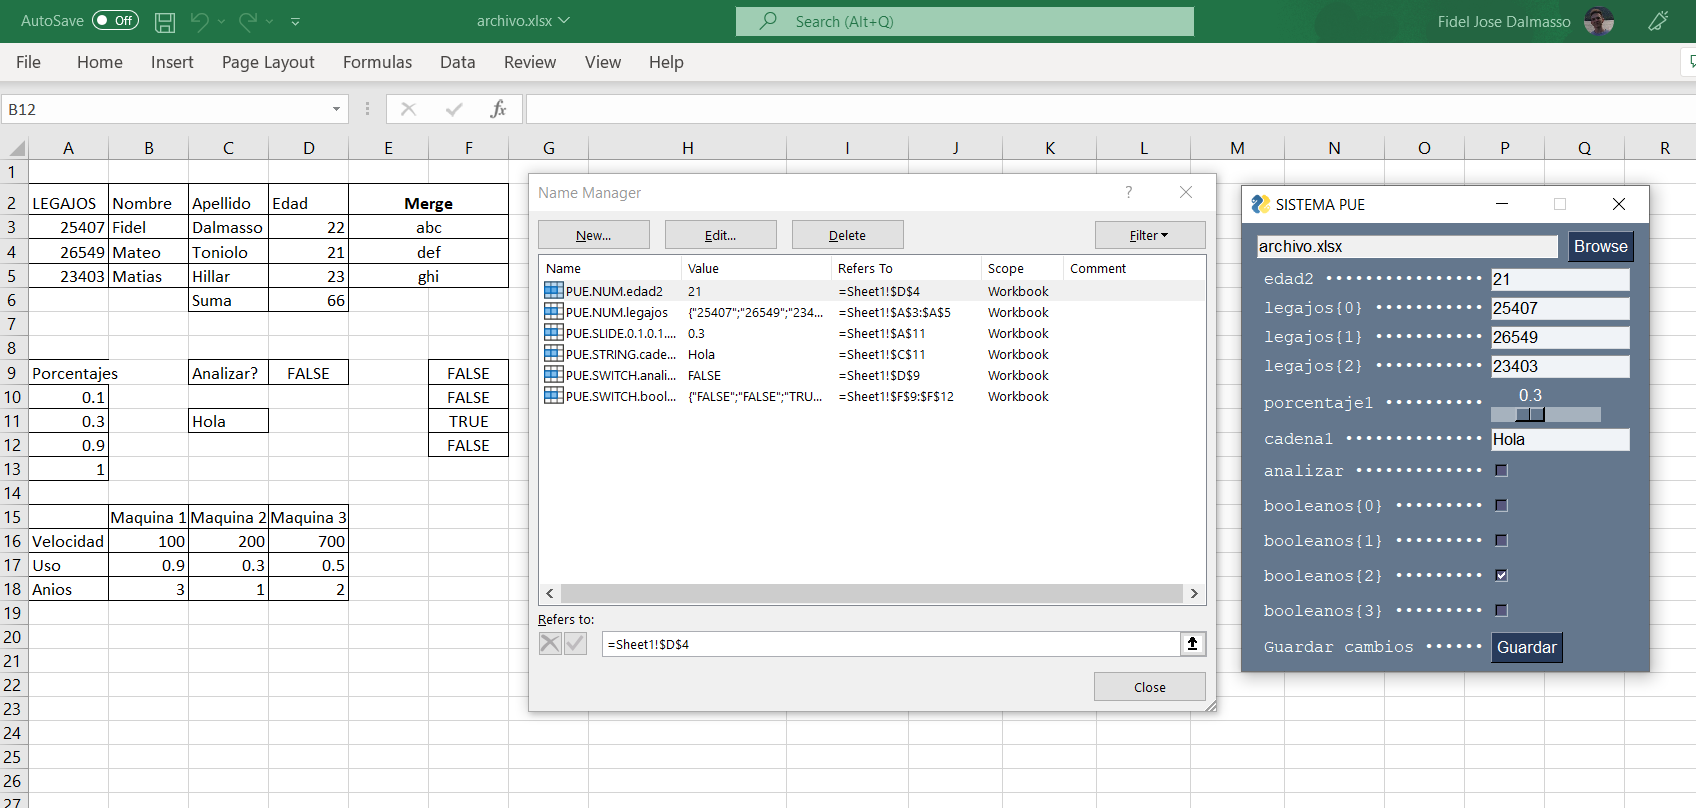
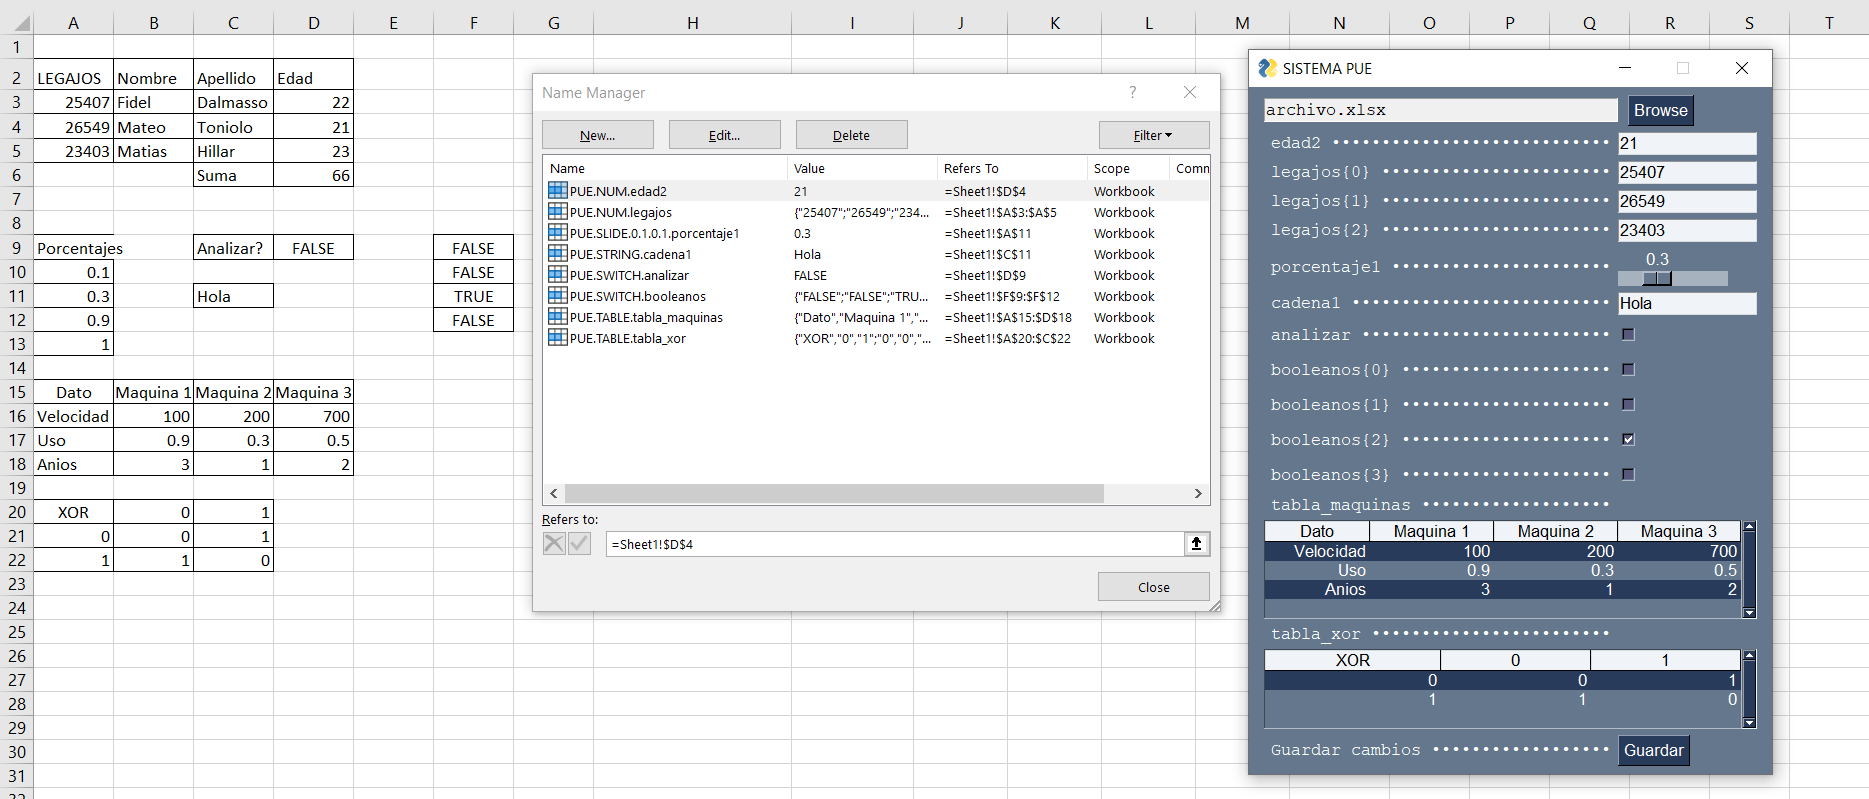
Agrega soporte para TABLE

diff --git a/script.py b/script.py
@@ -3,8 +3,6 @@ import openpyxl
 import PySimpleGUI as sg
 import re
 
-
-
 class Componente:
 	def __init__(self, tipo1):
 		self.tipo = tipo1
@@ -37,7 +35,7 @@ def funcion(nombre,resultado):
 		# ((?P<TrueValue>[a-zA-Z]+)\.(?P<FalseValue>[a-zA-Z]+)\.) | 
 		((?P<MinValue>\d+)\.(?P<MaxValue>\d+)\.(?P<Resolution>[\d\.]+)\.) |
 	)
-	(?P<Nombre>[a-zA-z0-9]+)
+	(?P<Nombre>[a-zA-z0-9_]+)
 	""",re.VERBOSE)
 
 	s=nombre
@@ -46,28 +44,45 @@ def funcion(nombre,resultado):
 	if(m!=None):
 		m=m.groupdict()
 		if hasattr(resultado, '__iter__'):  # es un rango de celdas
-			pass
-			lista = []
-			
-			counter=0
-			for row in resultado:
-				for cell in row:
-					match m.get('Tipo'):
-						case 'PUE.NUM.':
-							obj = Componente("NUM")
-						case 'PUE.STRING.':
-							obj = Componente("STRING")
-						case 'PUE.SLIDE.':
-							print("Warning: Range SLIDE not supported!")
-						case 'PUE.SWITCH.':
-							obj = Componente("SWITCH")
-					obj.nombre = m.get('Nombre')+"{"+str(counter)+"}"
-					obj.resultado = cell
-					obj.valor=cell.value
-					lista.append(obj)
-					counter+=1
 
-			return lista
+			if m.get('Tipo')=='PUE.TABLE.':
+				obj = Componente("TABLE")
+				obj.nombre = str(m.get('Nombre'))
+				h=len(resultado)
+				w=len(resultado[0])
+				obj.valores = [[0 for x in range(w)] for y in range(h)] 
+				# for row in resultado:
+				# 	for cell in row:
+				# 		obj.valores[int(counter/ancho)][counter%ancho]=cell.value
+				# 		counter+=1
+				for i in range(h):
+					for j in range(w):
+						obj.valores[i][j]=str(resultado[i][j].value)
+				return [obj]
+						
+			else:
+				counter=0
+				lista = []
+				for row in resultado:
+					for cell in row:
+						match m.get('Tipo'):
+							case 'PUE.NUM.':
+								obj = Componente("NUM")
+							case 'PUE.STRING.':
+								obj = Componente("STRING")
+							case 'PUE.SLIDE.':
+								print("Warning: Range SLIDE not supported!")
+							case 'PUE.SWITCH.':
+								obj = Componente("SWITCH")
+							case _:
+								print('Error! No se matchea con ningun caso!')
+						obj.nombre = m.get('Nombre')+"{"+str(counter)+"}"
+						obj.resultado = cell
+						obj.valor=cell.value
+						lista.append(obj)
+						counter+=1
+
+				return lista
 		else:  # es una celda
 			
 			match m.get('Tipo'):
@@ -95,12 +110,12 @@ def funcion(nombre,resultado):
 
 def make_window(componentes):
 	
-	NAME_SIZE = 23
+	NAME_SIZE = 35
 	def name(name):
 		dots = NAME_SIZE-len(name)-2
 		return sg.Text(name + ' ' + '•'*dots, size=(NAME_SIZE,1), justification='r',pad=(0,0), font='Courier 10')
 	
-	layout=[[sg.Input(FILENAME,key='browse',readonly=True,enable_events=True,s=33), sg.FileBrowse( target='browse')]]
+	layout=[[sg.Input(FILENAME,key='browse',readonly=True,enable_events=True,s=35,font='Courier 10'), sg.FileBrowse( target='browse')]]
 
 # 				[[sg.Input(key='_FILEBROWSE_', enable_events=True, visible=False)],
 #             [sg.FileBrowse(target='_FILEBROWSE_')],
@@ -120,8 +135,14 @@ def make_window(componentes):
 				# c.Update(componente.valor)
 			case 'SWITCH':
 				c = [name(componente.nombre), sg.Checkbox('',default=componente.valor=='True',key=componente.nombre)],
-
+			case 'TABLE':
+				layout.append([name(componente.nombre)])
+				c = [sg.Table(componente.valores[1:],headings=componente.valores[0],key=componente.nombre, expand_x=True,num_rows=len(componente.valores[0]), expand_y=True,alternating_row_color=sg.theme_button_color()[1])]
+				# c = [name(componente.nombre), sg.Button('caca')]
 		layout.append(c)
+
+
+
 
 	layout.append([name('Guardar cambios'),sg.Button('Guardar',key='Go')])
 	window = sg.Window('SISTEMA PUE', layout, finalize=True, keep_on_top=True)
@@ -145,11 +166,9 @@ def cargarArchivo(FILENAME):
 
 	window= make_window(componentes)
 	for i in keylist:
-		window[i].Update(componentes[i].valor) # poner los valores iniciales
+		if(componentes[i].tipo!='TABLE'):
+			window[i].Update(componentes[i].valor) # poner los valores iniciales
 	return wb,componentes,keylist,window
-
-
-
 
 
 FILENAME = 'archivo.xlsx'
@@ -165,11 +184,12 @@ while True:
 		wb, componentes, keylist, window = cargarArchivo(FILENAME)
 	elif event == "Go":
 		for i in keylist:
-			print("["+i+"="+str(values[i])+"]",end='')
-			componentes[i].modificar(str(values[i]))
+			# if(values[i]!=None):
+			if(componentes[i].tipo!='TABLE'):
+				print("["+i+"="+str(values[i])+"]",end='')
+				componentes[i].modificar(str(values[i]))
 		print()
 		nuevoArchivo = FILENAME.split('.')[0]+'Modificado.xlsx'
 		print("Guardando cambios en " + nuevoArchivo+" ...")
 		wb.save(nuevoArchivo)
 window.close()
-

diff --git a/ejemplos/ejemploTabla2.py b/ejemplos/ejemploTabla2.py
@@ -1,0 +1,98 @@
+import PySimpleGUI as sg
+import random, string
+
+# ------ Some functions to help generate data for the table ------
+def word():
+    return ''.join(random.choice(string.ascii_lowercase) for i in range(10))
+def number(max_val=1000):
+    return random.randint(0, max_val)
+
+def make_table(num_rows, num_cols):
+    data = [[j for j in range(num_cols)] for i in range(num_rows)]
+    data[0] = [word() for _ in range(num_cols)]
+    for i in range(0, num_rows):
+        data[i] = [i, word(), *[number() for i in range(num_cols - 1)]]
+    return data
+
+def edit_cell(window, key, row, col, justify='left'):
+
+    global textvariable, edit
+
+    def callback(event, row, col, text, key):
+        global edit
+        widget = event.widget
+        if key == 'Return':
+            text = widget.get()
+            print(text)
+        widget.destroy()
+        widget.master.destroy()
+        values = list(table.item(row, 'values'))
+        values[col] = text
+        table.item(row, values=values)
+        edit = False
+
+    if edit or row <= 0:
+        return
+
+    edit = True
+    root = window.TKroot
+    table = window[key].Widget
+
+    text = table.item(row, "values")[col]
+    x, y, width, height = table.bbox(row, col)
+
+    frame = sg.tk.Frame(root)
+    frame.place(x=x, y=y, anchor="nw", width=width, height=height)
+    textvariable = sg.tk.StringVar()
+    textvariable.set(text)
+    entry = sg.tk.Entry(frame, textvariable=textvariable, justify=justify)
+    entry.pack()
+    entry.select_range(0, sg.tk.END)
+    entry.icursor(sg.tk.END)
+    entry.focus_force()
+    entry.bind("<Return>", lambda e, r=row, c=col, t=text, k='Return':callback(e, r, c, t, k))
+    entry.bind("<Escape>", lambda e, r=row, c=col, t=text, k='Escape':callback(e, r, c, t, k))
+
+def main_example1():
+    global edit
+
+    edit = False
+    # ------ Make the Table Data ------
+    # sg.Print('Creating table...')
+    data = make_table(num_rows=1_000, num_cols=6)
+    # headings = [str(data[0][x])+'     ..' for x in range(len(data[0]))]
+    headings = [f'Col {col}' for col in range(len(data[0]))]
+    # sg.Print('Done creating table.  Creating GUI...')
+    sg.set_options(dpi_awareness=True)
+    layout = [[sg.Table(values=data, headings=headings, max_col_width=25,
+                        auto_size_columns=True,
+                        # display_row_numbers=True,
+                        justification='right',
+                        num_rows=20,
+                        alternating_row_color=sg.theme_button_color()[1],
+                        key='-TABLE-',
+                        # selected_row_colors='red on yellow',
+                        # enable_events=True,
+                        # select_mode=sg.TABLE_SELECT_MODE_BROWSE,
+                        expand_x=True,
+                        expand_y=True,
+                        enable_click_events=True,  # Comment out to not enable header and other clicks
+                        )],
+              [sg.Button('Read'), sg.Button('Double'), sg.Button('Change Colors')],
+              [sg.Text('Cell clicked:'), sg.T(k='-CLICKED-')]]
+
+
+    window = sg.Window('Table Element - Example 1', layout, resizable=True, finalize=True)
+
+    while True:
+        event, values = window.read()
+        if event in (sg.WIN_CLOSED, 'Exit'):
+            break
+        elif isinstance(event, tuple):
+            cell = row, col = event[2]
+            window['-CLICKED-'].update(cell)
+            edit_cell(window, '-TABLE-', row+1, col, justify='right')
+
+    window.close()
+
+main_example1()

diff --git a/ejemplos/ejemploTabla.py b/ejemplos/ejemploTabla.py
@@ -1,0 +1,74 @@
+import PySimpleGUI as sg
+import random, string
+
+# ------ Some functions to help generate data for the table ------
+def word():
+    return ''.join(random.choice(string.ascii_lowercase) for i in range(10))
+def number(max_val=1000):
+    return random.randint(0, max_val)
+
+def make_table(num_rows, num_cols):
+    data = [[j for j in range(num_cols)] for i in range(num_rows)]
+    data[0] = [word() for _ in range(num_cols)]
+    for i in range(0, num_rows):
+        data[i] = [i, word(), *[number() for i in range(num_cols - 1)]]
+    return data
+
+def main_example1():
+    def edit_cell(location):
+        layout = [[sg.In(s=5, k='-IN-')],
+                  [sg.B('Ok', visible=False, bind_return_key=True)]]
+
+        window = sg.Window('', layout, no_titlebar=True, location=location, margins=(0,0), element_padding=(0,0), return_keyboard_events=True, keep_on_top=True, modal=True)
+        while True:
+            event, values = window.read()
+            print(event, values)
+            if event == 'Ok':
+                window.close()
+                return values['-IN-']
+            elif event.startswith('Escape'):
+                window.close()
+                return None
+
+    # ------ Make the Table Data ------
+    # sg.Print('Creating table...')
+    data = make_table(num_rows=10_000, num_cols=6)
+    # headings = [str(data[0][x])+'     ..' for x in range(len(data[0]))]
+    headings = [f'Col {col}' for col in range(len(data[0]))]
+    # sg.Print('Done creating table.  Creating GUI...')
+    layout = [[sg.Table(values=data, headings=headings, max_col_width=25,
+                        auto_size_columns=True,
+                        # display_row_numbers=True,
+                        justification='right',
+                        num_rows=20,
+                        alternating_row_color=sg.theme_button_color()[1],
+                        key='-TABLE-',
+                        # selected_row_colors='red on yellow',
+                        # enable_events=True,
+                        # select_mode=sg.TABLE_SELECT_MODE_BROWSE,
+                        expand_x=True,
+                        expand_y=True,
+                        enable_click_events=True,  # Comment out to not enable header and other clicks
+                        )],
+              [sg.Button('Read'), sg.Button('Double'), sg.Button('Change Colors')],
+              [sg.Text('Cell clicked:'), sg.T(k='-CLICKED-')]]
+
+
+    window = sg.Window('Table Element - Example 1', layout, resizable=True)
+
+    while True:
+        event, values = window.read()
+        if event in (sg.WIN_CLOSED, 'Exit'):
+            break
+        if isinstance(event, tuple):
+            cell = event[2]
+            window['-CLICKED-'].update(cell)
+            new_value = edit_cell(location=window.mouse_location())
+            if new_value is not None:
+                data[cell[0]][cell[1]] = new_value
+                window['-TABLE-'].update(data)
+
+    window.close()
+
+main_example1()
+

diff --git a/README.md b/README.md
@@ -11,7 +11,7 @@ PUE.STRING.Nombre
 
 ## Tablas
 ```
-PUE.TABLE.Nombre (no disponible)
+PUE.TABLE.Nombre
 ```
 
 ## Especiales
